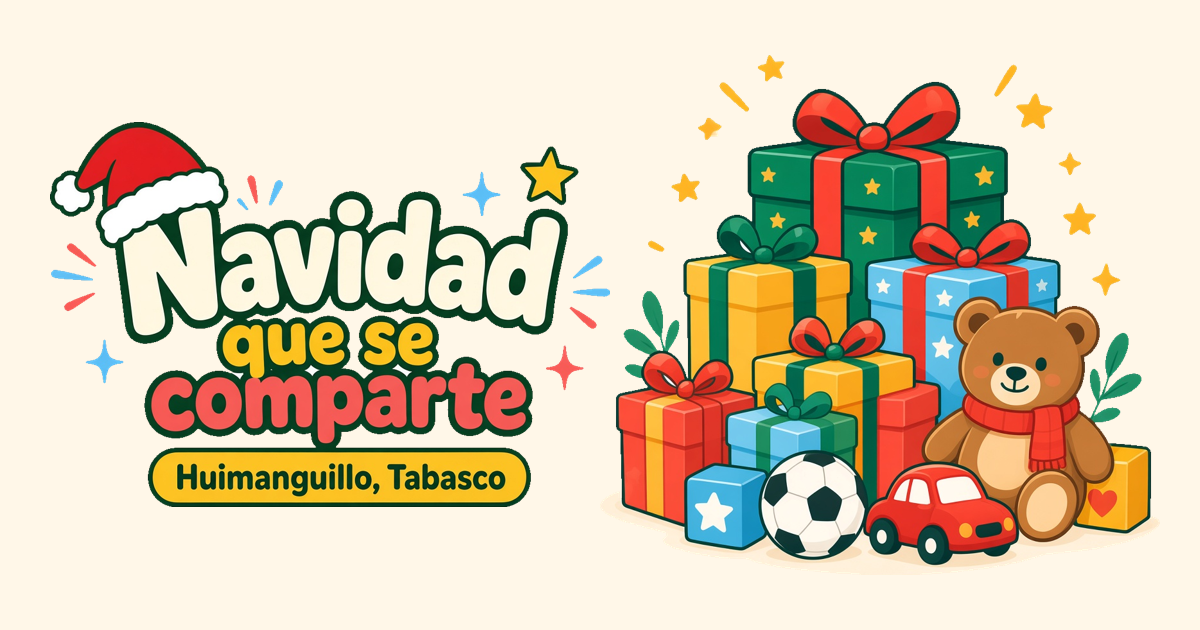
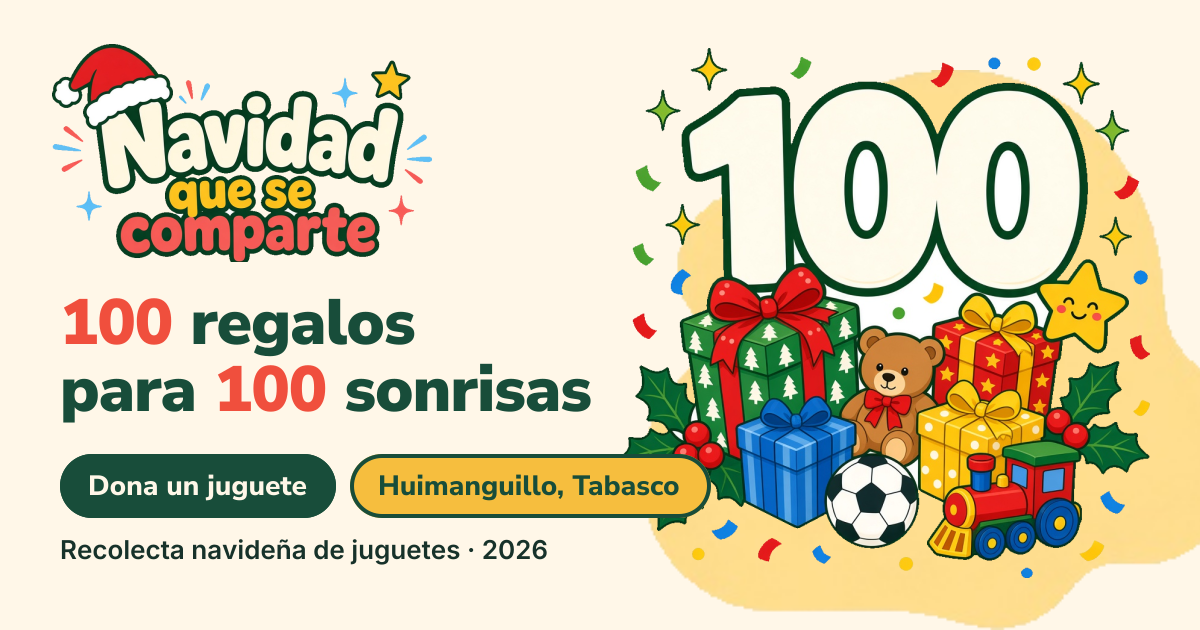
feat(seo): metadatos completos y imagen Open Graph/Twitter 1200x630

diff --git a/src/app/layout.tsx b/src/app/layout.tsx
@@ -5,21 +5,47 @@ import "./globals.css"
 const nunito = Nunito_Sans({ variable: "--font-nunito", subsets: ["latin"], weight: ["700", "800", "900"], display: "swap" })
 const inter = Inter({ variable: "--font-inter", subsets: ["latin"], weight: ["400", "500", "600"], display: "swap" })
 
+const siteName = "Navidad que se comparte"
 const title = "100 regalos para 100 sonrisas | Huimanguillo 2026"
 const description =
   "Súmate a nuestra recolecta navideña de juguetes en Huimanguillo, Tabasco. Queremos reunir 100 regalos para niñas y niños de una comunidad esta Navidad."
 
+/**
+ * URL pública del sitio. El dominio definitivo está PENDIENTE: define `NEXT_PUBLIC_SITE_URL`
+ * (p. ej. https://tu-dominio.mx, sin barra final) en el hosting antes de publicar. En Vercel se
+ * usa el dominio de producción del proyecto como respaldo; en local, http://localhost:3000.
+ */
+const siteUrl =
+  process.env.NEXT_PUBLIC_SITE_URL ||
+  (process.env.VERCEL_PROJECT_PRODUCTION_URL ? `https://${process.env.VERCEL_PROJECT_PRODUCTION_URL}` : "http://localhost:3000")
+
+// La imagen para compartir (1200×630) y su texto alternativo viven en
+// `opengraph-image.png`, `twitter-image.png` y sus `*.alt.txt`; Next.js agrega
+// og:image / twitter:image (con ancho, alto, tipo y alt) automáticamente.
 export const metadata: Metadata = {
-  metadataBase: new URL(process.env.NEXT_PUBLIC_SITE_URL ?? "http://localhost:3000"),
-  title,
+  metadataBase: new URL(siteUrl),
+  title: { default: title, template: `%s | ${siteName}` },
   description,
-  applicationName: "Navidad que se comparte",
-  keywords: ["recolecta de juguetes", "Huimanguillo", "Tabasco", "Navidad 2026", "donar juguetes"],
-  openGraph: { title, description, type: "website", locale: "es_MX", siteName: "Navidad que se comparte" },
+  applicationName: siteName,
+  keywords: [
+    "recolecta de juguetes",
+    "colecta de juguetes",
+    "donar juguetes",
+    "Navidad 2026",
+    "Huimanguillo",
+    "Tabasco",
+    "Navidad que se comparte",
+    "juguetes para niñas y niños",
+  ],
+  category: "charity",
+  alternates: { canonical: "/" },
+  openGraph: { type: "website", url: "/", siteName, title, description, locale: "es_MX" },
   twitter: { card: "summary_large_image", title, description },
+  robots: { index: true, follow: true, googleBot: { index: true, follow: true, "max-image-preview": "large" } },
+  formatDetection: { telephone: false, email: false, address: false },
 }
 
-export const viewport: Viewport = { themeColor: "#184D3A" }
+export const viewport: Viewport = { themeColor: "#184D3A", colorScheme: "light" }
 
 export default function RootLayout({ children }: LayoutProps<"/">) {
   return (
